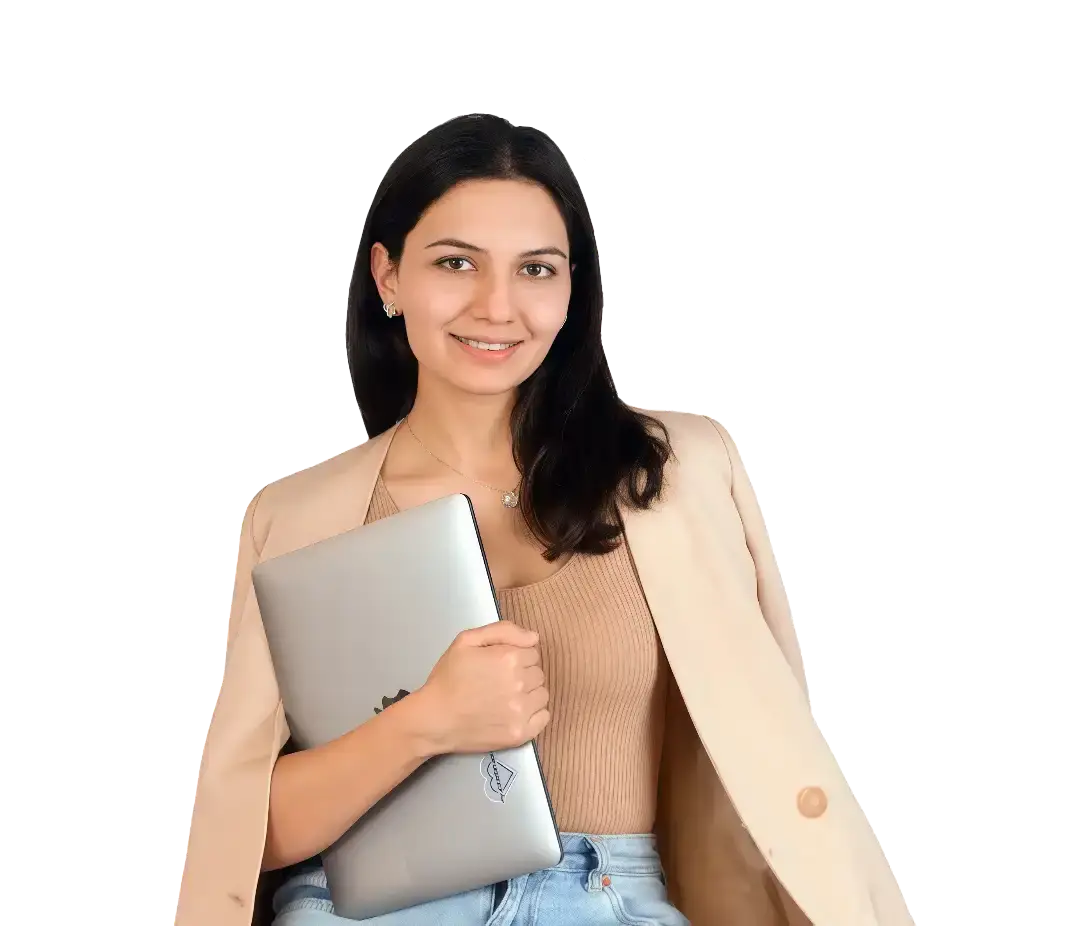
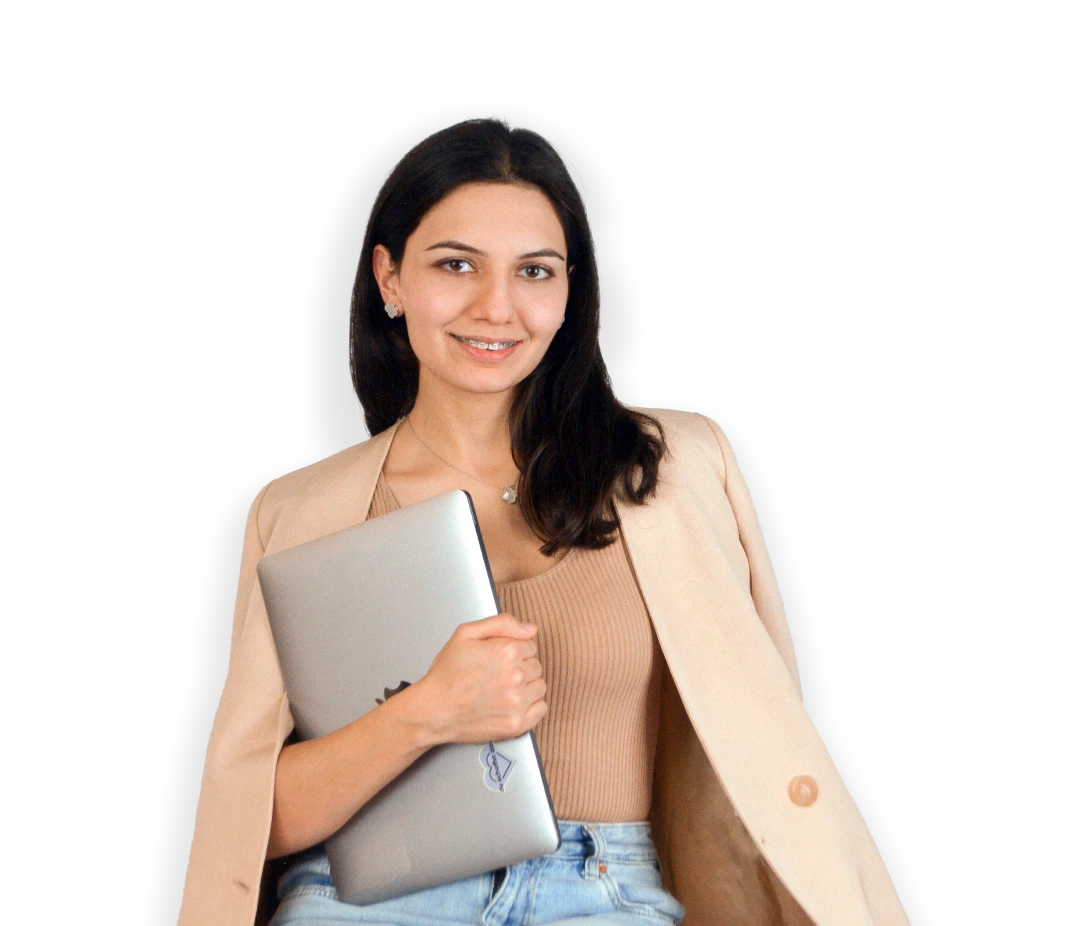
fix imgag

diff --git a/deu/index.html b/deu/index.html
@@ -53,7 +53,7 @@
                     <a href="#faq" class="nav__link">FAQ</a>
                 </div>
             </nav>
-            <a class="lang" href="/">
+            <a class="lang" href="/dialog/">
                 deu
             </a>
             <div class="header__mob">
@@ -70,10 +70,10 @@
     <main>
         <section class="hero">
             <div class="hero-bg">
-                <img src="/img/hero-bg.svg" alt="Hero Background Tape">
+                <img src="./img/hero-bg.svg" alt="Hero Background Tape">
             </div>
             <div class="hero-bg-mob">
-                <img src="/img/hero-bg-mob.webp" alt="Hero Background Tape">
+                <img src="./img/hero-bg-mob.webp" alt="Hero Background Tape">
             </div>
             <div class="hero__img">
                 <img src="./img/armina-hero.webp" alt="Школа немецкого языка Dialog — занятия онлайн и в Вене"

diff --git a/index.html b/index.html
@@ -44,7 +44,7 @@
                     <a href="#faq" class="nav__link">FAQ</a>
                 </div>
             </nav>
-            <a class="lang" href="/deu">
+            <a class="lang" href="/dialog/deu">
                 ru
             </a>
             <div class="header__mob">
@@ -61,10 +61,10 @@
     <main>
         <section class="hero">
             <div class="hero-bg">
-                <img src="/img/hero-bg.svg" alt="Hero Background Tape">
+                <img src="./img/hero-bg.svg" alt="Hero Background Tape">
             </div>
             <div class="hero-bg-mob">
-                <img src="/img/hero-bg-mob.webp" alt="Hero Background Tape">
+                <img src="./img/hero-bg-mob.webp" alt="Hero Background Tape">
             </div>
             <div class="hero__img">
                 <img src="./img/armina-hero.webp" alt="Школа немецкого языка Dialog — занятия онлайн и в Вене"